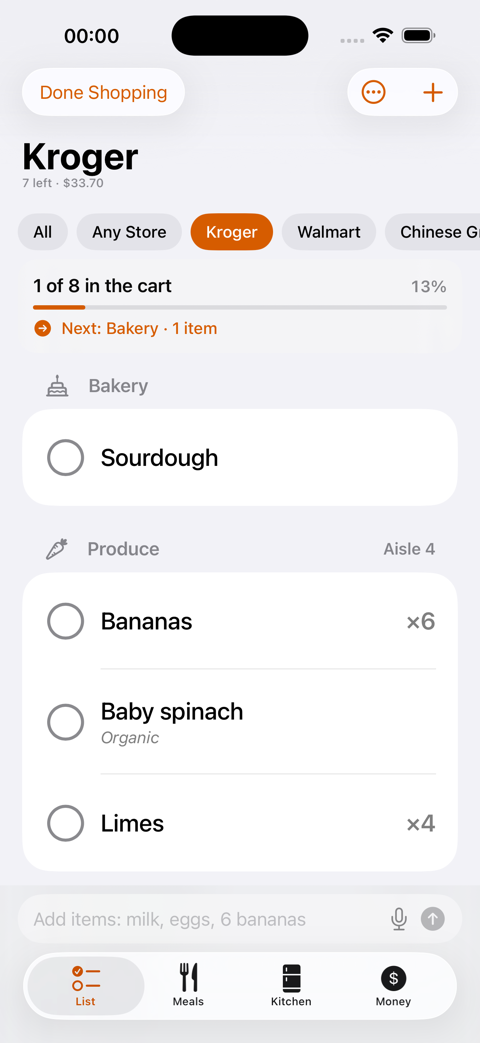
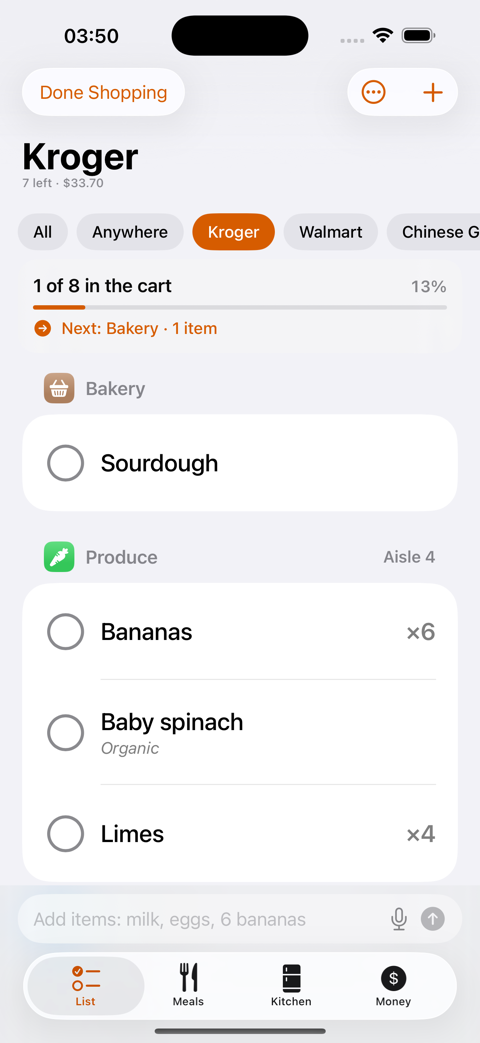
Fix the welcome sheet's color and only offer setup on a fresh install
The brand tint was applied before the welcome sheet was attached, so its
Get Started button was system blue; the tint now comes last.

First-launch setup replaces the stores and, without samples, clears
history, so it must never run on an existing install. It used to count
any launch with no saved list as a first run; now the list, stores and
history files all have to be missing. A test covers a lone missing list.

New README screenshots: a store's list and Shopping Mode with the new
aisle tiles and Anywhere chip, and the welcome screen.

diff --git a/Grocery/Shared/GroceryStore.swift b/Grocery/Shared/GroceryStore.swift
@@ -94,9 +94,9 @@ final class GroceryStore {
         // Sample items only on a true first run. An unreadable list starts empty instead, so the sample
         // items can never be saved over a list that merely failed to load.
         let itemsFile = readFile([GroceryItem].self, "grocery")
-        if case .missing = itemsFile { isFirstRun = true }
+        let shopsFile = readFile([Shop].self, "shops")
         items = value(of: itemsFile, ifMissing: Self.sampleItems)
-        shops = value(of: readFile([Shop].self, "shops"), ifMissing: Shop.defaultNames.map { Shop(name: $0) })
+        shops = value(of: shopsFile, ifMissing: Shop.defaultNames.map { Shop(name: $0) })
         favorites = value(of: readFile([Favorite].self, "favorites"), ifMissing: [])
         meals = value(of: readFile([Meal].self, "meals"), ifMissing: [])
         let historyFile = readFile([PastItem].self, "history")
@@ -105,6 +105,9 @@ final class GroceryStore {
         plan = value(of: readFile([PlannedMeal].self, "plan"), ifMissing: [])
         stock = value(of: readFile([StockEntry].self, "stock"), ifMissing: [])
         spending = value(of: readFile([SpendRecord].self, "spending"), ifMissing: [])
+        // Only a truly fresh install counts as a first run: one missing file on its own (after a
+        // partial restore, say) must never lead setup to replace stores or clear history.
+        if case .missing = itemsFile, case .missing = shopsFile, case .missing = historyFile { isFirstRun = true }
         if case .missing = historyFile { return true }
         return false
     }

diff --git a/Grocery/Tests/GroceryTests/FeatureTests.swift b/Grocery/Tests/GroceryTests/FeatureTests.swift
@@ -371,3 +371,13 @@ final class FirstLaunchTests: StoreTestCase {
         XCTAssertTrue(store.history.isEmpty)
     }
 }
+
+final class FirstLaunchSafetyTests: StoreTestCase {
+    func testAMissingListAloneIsNotAFirstRun() {
+        store.items = [GroceryItem(name: "Milk")]
+        store.shops = [Shop(name: "Kroger")]
+        store.history = [PastItem(name: "Milk", aisle: .dairy, shopID: nil, price: nil)]
+        try? FileManager.default.removeItem(at: Storage.url("grocery"))
+        XCTAssertFalse(GroceryStore().isFirstRun, "stores and history are still there, so this isn't a fresh install")
+    }
+}

diff --git a/Grocery/Sources/Tabs.swift b/Grocery/Sources/Tabs.swift
@@ -14,9 +14,10 @@ struct RootView: View {
             Tab("Kitchen", systemImage: "refrigerator", value: AppTab.kitchen) { KitchenHub() }
             Tab("Money", systemImage: "dollarsign.circle", value: AppTab.money) { MoneyHub() }
         }
-        .tint(.brand)
         .onAppear { showingWelcome = store.isFirstRun && !Storage.isUITesting }
         .sheet(isPresented: $showingWelcome) { WelcomeView() }
+        // Last, so sheets presented from here pick up the brand color too.
+        .tint(.brand)
     }
 }
 

diff --git a/README.md b/README.md
@@ -17,7 +17,7 @@ Requires iOS 26 and Xcode 26. Written in SwiftUI with no third-party dependencie
   <tr>
     <td align="center"><img src="docs/screenshots/tab-meals.png" width="230" alt="The Meals tab"><br><sub><b>Meals tab</b><br>what's planned today, cooking ideas, saved meals and the plan</sub></td>
     <td align="center"><img src="docs/screenshots/tab-kitchen.png" width="230" alt="The Kitchen tab"><br><sub><b>Kitchen tab</b><br>what to use soon, what's at home, pantry check and usual items</sub></td>
-    <td></td>
+    <td align="center"><img src="docs/screenshots/welcome.png" width="230" alt="First-launch setup"><br><sub><b>First launch</b><br>pick the stores you shop at, then get started</sub></td>
   </tr>
   <tr>
     <td align="center"><img src="docs/screenshots/shopping-mode.png" width="230" alt="Shopping Mode with progress and the next aisle"><br><sub><b>Shopping Mode</b><br>progress, the next aisle, and big rows with nothing else in the way</sub></td>
